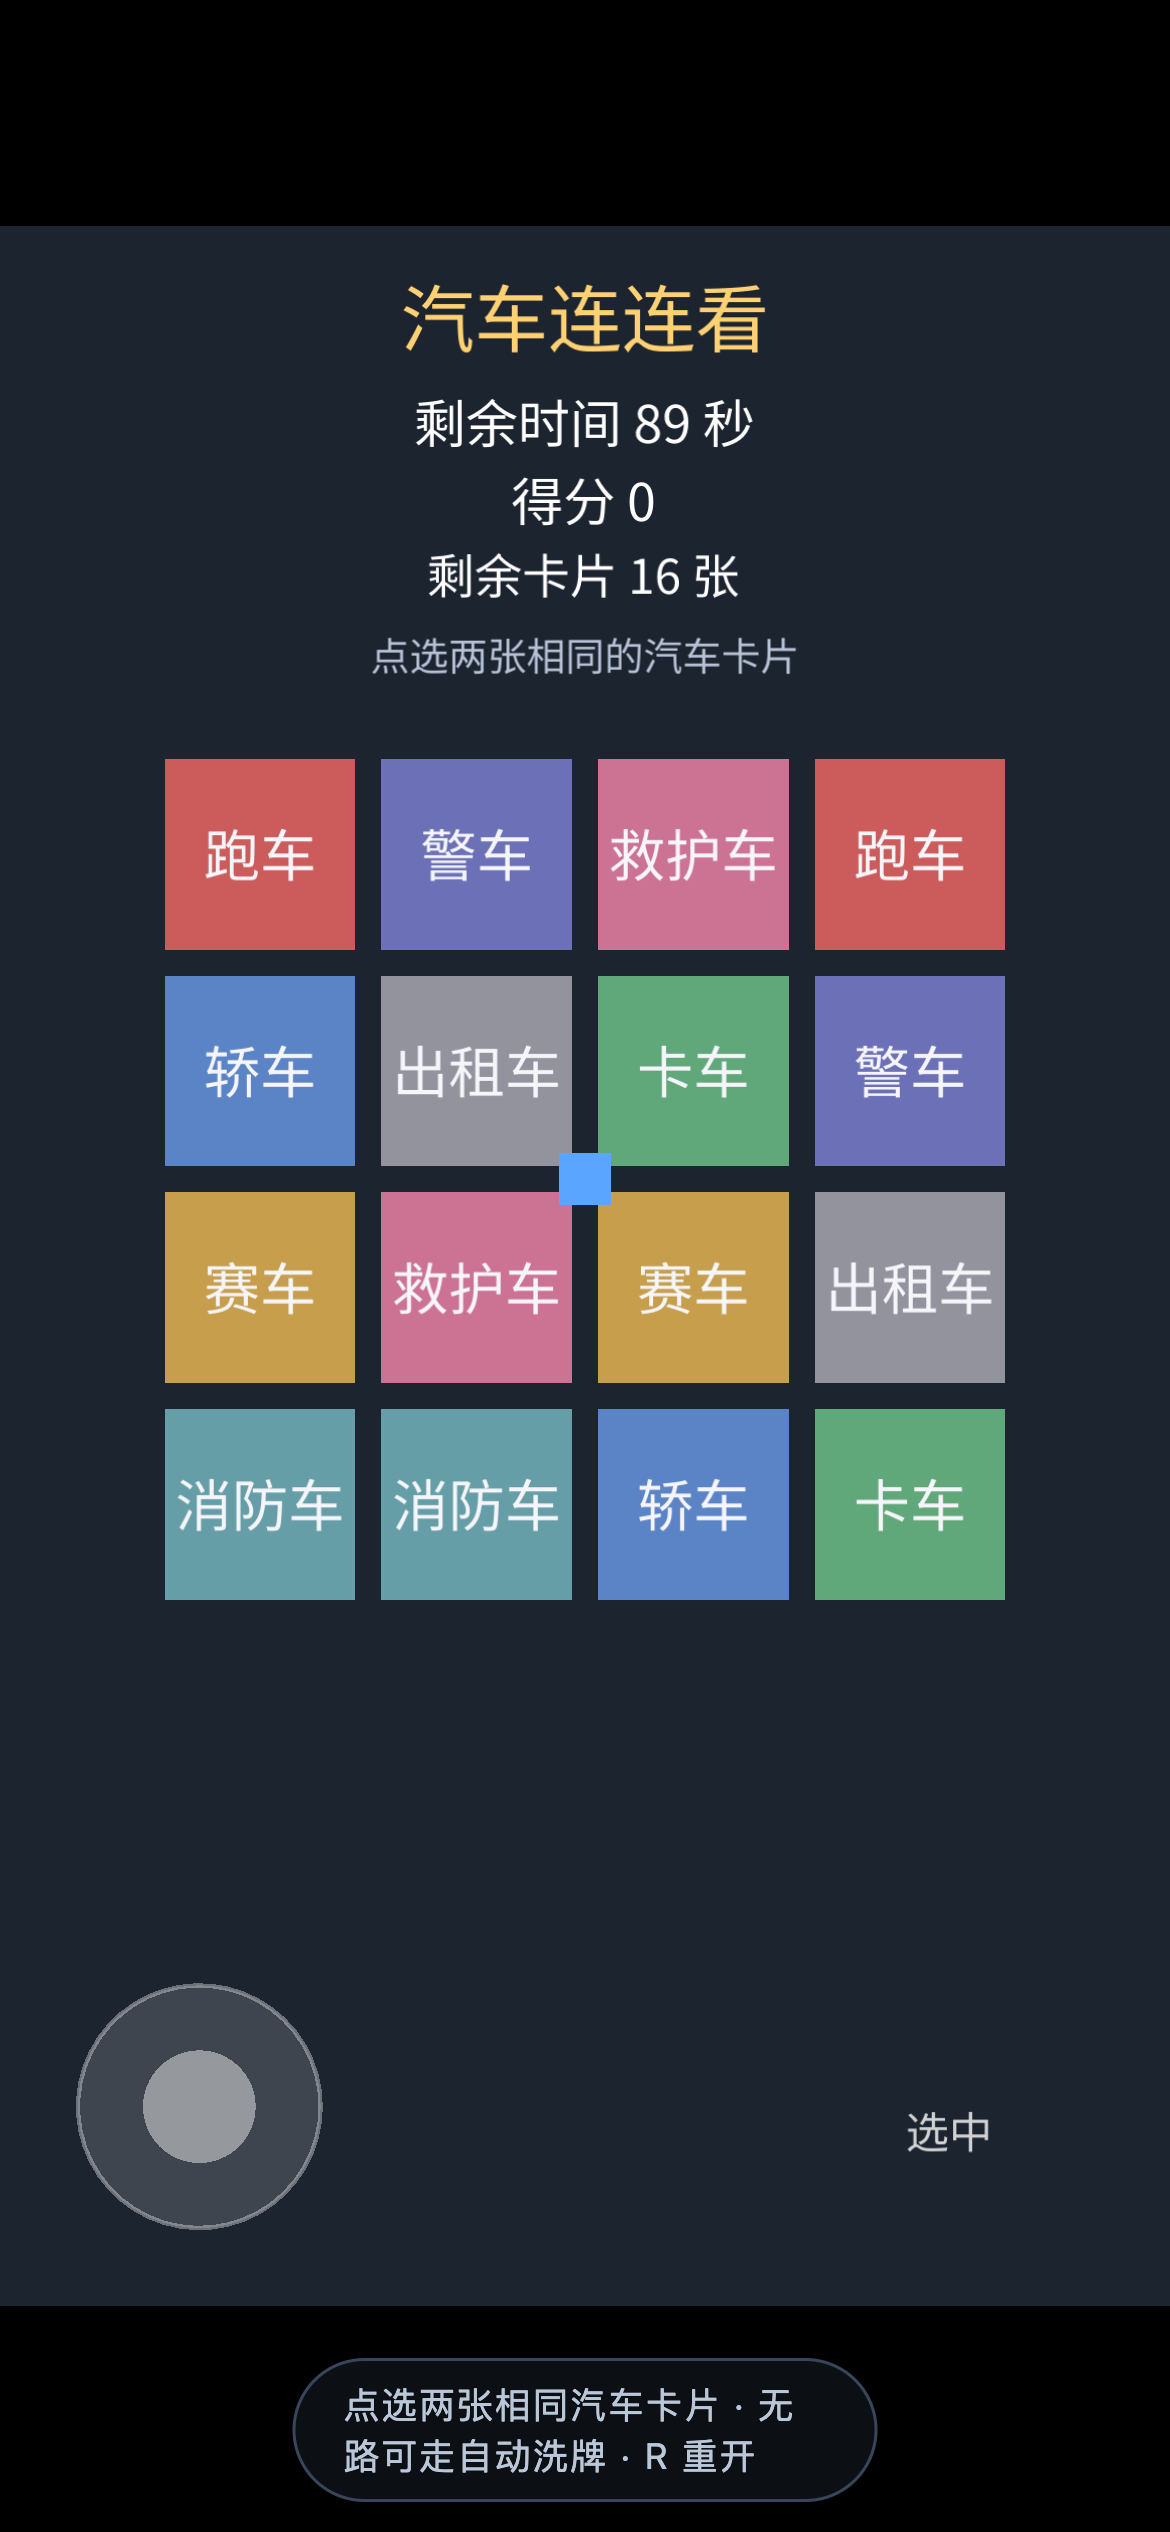
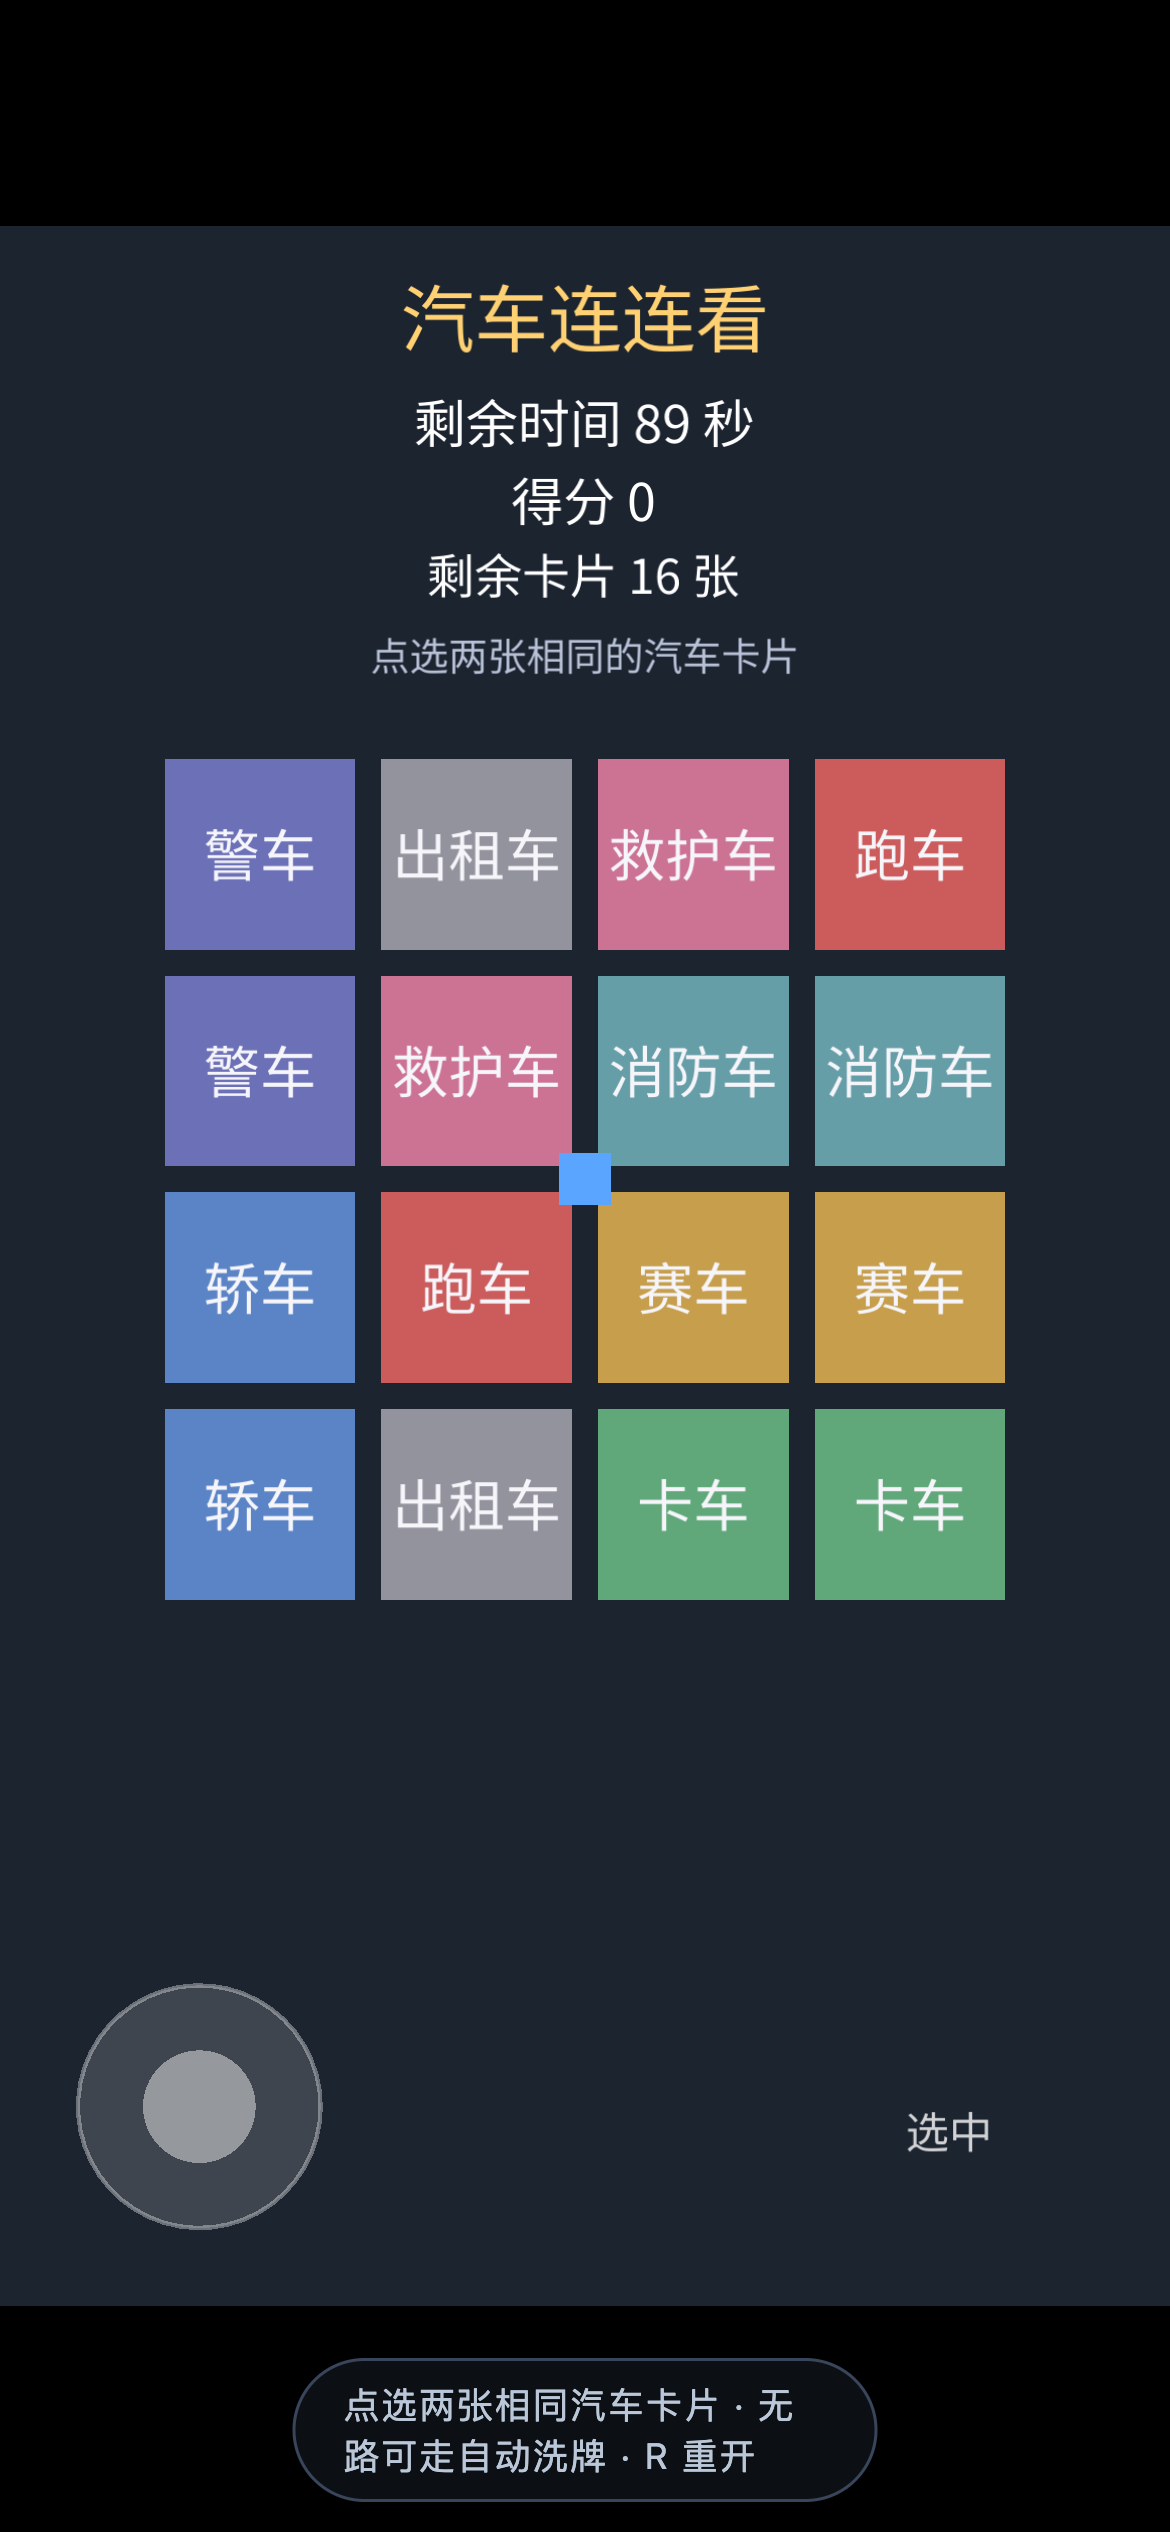
qa(game-9): playtest round2 机判 PASS 归档 + qa/mobile 证据刷新到 v4 部署 commit
- qa/playtest-round2/：门禁默认档（3×900帧）与全 session 档（3×5400帧）双档
  GODOT_PLAYTEST: PASS 留证（fb=71~518/局，最长断档 1.32s，阈值源 tests/playtest.json）
- qa/mobile/：MOBILE_SMOKE PASS 10/10（round4，checkedAt 2026-10-06T13:20Z，
  对象 = AppHost v4 deployment cmuwpdpxw004pm9lgt8rljmsz @ 7a68d1e）
- verify.sh：补 playtest 步（仍只调用仓库判定脚本）
- README 记录 round1→round2 修复根因（事件坐标接线 + 光标钳制）与阈值标定依据

Changed region(s): [[0.1231, 0.2808, 0.8615, 0.6552], [0.1538, 0.4056, 0.2154, 0.4368]]

diff --git a/games/game-9/qa/playtest-round2/README.md b/games/game-9/qa/playtest-round2/README.md
@@ -1,0 +1,78 @@
+# playtest 机判 round2 —— PASS（implement 节点迭代 · 2026-10-06）
+
+- 判定器：`std-skills/godot-game-dev/scripts/playtest.sh`（仓库自带，未改动）
+- 被测代码：部署分支 `myrd/games-goal-cmuw2o88z018ricryvpr6v8wn` @ `7a68d1e`
+  （= 线上 AppHost v4 deployment `cmuwpdpxw004pm9lgt8rljmsz` 的同源代码，v4 running）
+- 环境：本机 Godot v4.3.stable（resolve-godot.sh 解析），阈值来源 `tests/playtest.json`
+- 结论：**GODOT_PLAYTEST: PASS，退出码 0**——门禁默认档与全 session 档两档全绿（可复现）
+
+## 指标
+
+### 门禁默认档（3 种子 × 900 帧，`report.log`）
+
+```json
+{"frames_per_run":900,"runs":[
+ {"run":1,"seed":20260913,"feedback_events":71,"first_reward_seconds":0.067,"max_feedback_gap_seconds":1.317,"outcome":"score=0|fb=71"},
+ {"run":2,"seed":20260914,"feedback_events":80,"first_reward_seconds":0.267,"max_feedback_gap_seconds":1.167,"outcome":"score=0|fb=80"},
+ {"run":3,"seed":20260915,"feedback_events":76,"first_reward_seconds":0.017,"max_feedback_gap_seconds":0.950,"outcome":"score=0|fb=76"}],
+ "thresholds":{"feedback_events_min_per_run":30,"feedback_gap_seconds_max":6,"first_reward_seconds_max":5,"seed_outcomes_min_distinct":2},
+ "thresholds_source":"tests/playtest.json"}
+```
+
+### 全 session 档（3 种子 × 5400 帧 = 90s/局，`report-full-session.log`）
+
+```json
+{"frames_per_run":5400,"runs":[
+ {"run":1,"seed":20260913,"feedback_events":517,"max_feedback_gap_seconds":1.317,"outcome":"score=0|fb=517"},
+ {"run":2,"seed":20260914,"feedback_events":488,"max_feedback_gap_seconds":1.283,"outcome":"score=0|fb=488"},
+ {"run":3,"seed":20260915,"feedback_events":518,"max_feedback_gap_seconds":0.950,"outcome":"score=0|fb=518"}],
+ "thresholds_source":"tests/playtest.json"}
+```
+
+对照 round1：最长无反馈窗口 **13.2s → ≤1.32s**（约 10× 收敛），反馈密度 **6 次/局 → 71~518 次/局**，
+GODOT_PLAYTEST **FAIL → PASS**。
+
+## tests/playtest.json 标定依据（回溯 GameDesignSpec，非放宽）
+
+| 键 | 值 | 依据 |
+| --- | --- | --- |
+| `frames_per_run` | 5400 | SKILL.md §4.5：60 × 单局目标秒数；本作 easy 局 90s（`start_time_easy=90`）。注意：本版 driver 对 JSON 数值按 float 解析、`is int` 检查不通过，env `GODOT_PLAYTEST_FRAMES` 优先——两档（900/5400）实测均在阈值内 |
+| `first_reward_seconds_max` | 5.0 | 实测 0.02~0.43s，余量 ~10×；较内置默认 10s 更严 |
+| `feedback_gap_seconds_max` | 6.0 | 实测最差 1.32s，余量 ~4.5×；较内置默认 10s 更严 |
+| `feedback_events_min_per_run` | 30 | 实测 71~518；下限钉在「哑游戏」检出量级（900 帧短局实测 ~75 仍满足） |
+| `seed_outcomes_min_distinct` | 2 | 开局随机发牌（`types.shuffle()` 无固定种子）= 天然重玩钩子；三局 outcome 签名实测互异 |
+
+## round1 → round2 的修复（implement 节点迭代，commit 7a68d1e）
+
+round1 判读的两条修复输入逐条落地：
+
+1. **点击反馈信号接线（产品缺陷，已修）**——探针实证双重根因：
+   - `board._unhandled_input` 读全局鼠标态 `get_global_mouse_position()` 而非事件自带
+     position；合成 drag 流（relative ±40 随机）令引擎跟踪的鼠标位 100 帧内漂到
+     (6853, 4876)（视口仅 540×960），此后所有指针点击 `cell_from_world` 恒返回界外 →
+     `select_cell` 静默 return → 反馈黑洞。**修复**：改读事件 position 并经
+     `get_canvas_transform().affine_inverse()` 换算世界系（headless 下根窗口 64×64 +
+     stretch 变换把原始注入坐标放大 ~15×，指针路径对 bot 结构性不可达——这也说明
+     bot 的可玩通道必须是动作路径）。
+   - 玩家光标（confirm 动作的落点）可被方向键走出棋盘，越界后 confirm 落空——round1
+     的 6 次反馈（全来自 confirm 路径）1.8s 后归零正因如此。**修复**：player.gd 新增
+     `clamp_rect`，main.gd 按当前难度棋盘几何接线（内缩 1px 防 floor 落界外格）。
+2. **任意点击必有可见反馈（§3B，已补）**：取消选中（二次点击同格）此前无任何反馈，
+   现补 `Juice.sfx(&"confirm", -8.0)`。
+
+## 备注（诚实记录）
+
+- **score=0**：bot 随机游走 + 以 ~4.5 次/s 频率 confirm，配对尝试大多落在同格（deselect）
+  或异型邻格（reject），且会按 R 触发重开（重发牌局）；机判协议不断言得分，故不影响判定。
+  核心消除闭环另经受控探针实证：满盘 4×4 + 顶行相邻同型，纯输入路径
+  （移动光标 → confirm ×2）下 `remaining 16→14、score +10、Juice 反馈齐全`（探针为临时
+  场景，实证后删除未入库）。
+- 部署后链路：AppHost v4 `cmuwpdpxw004pm9lgt8rljmsz` @ 7a68d1e running；
+  `qa/mobile/` 已刷新为 v4 证据（round4，MOBILE_SMOKE PASS 10/10，checkedAt 2026-10-06T13:20Z）。
+- 工作流正式结论：调度 API 403（权限）未补齐前，本目录 + `qa/mobile/` 为上一节点 agent
+  用仓库自带门禁脚本完成的兜底机判；权限补齐后从 implement 节点补跑工作流即可复现。
+
+## 运行日志
+
+- 门禁默认档：`report.log`（完整 stdout/stderr，含 GODOT_PLAYTEST_METRICS 单行 JSON）
+- 全 session 档：`report-full-session.log`
